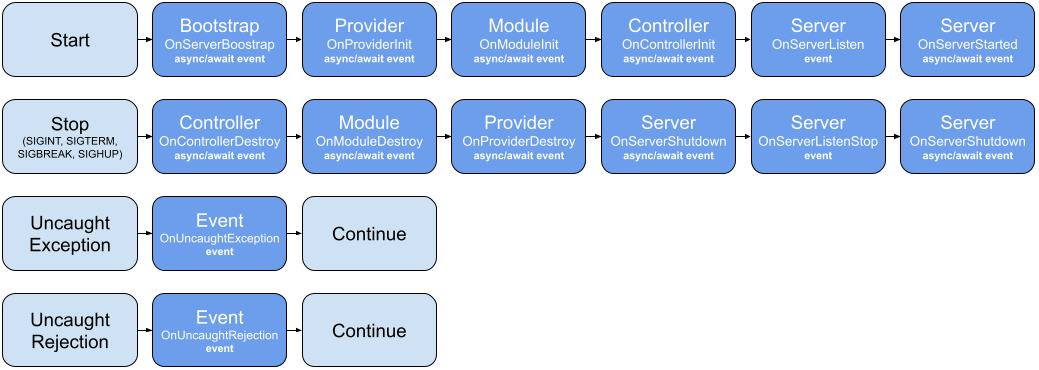
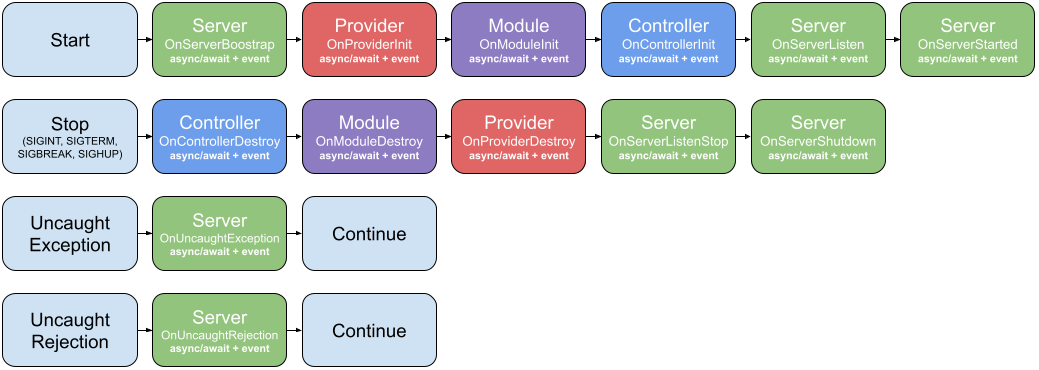
Lifecycle added errors

diff --git a/src/server.ts b/src/server.ts
@@ -134,7 +134,7 @@ export class Server {
   }
 
   private setDefaultUnhandledExceptionsFallback() {
-    process.on('uncaughtException', error => LifeCycleService.triggerUncaughtException(error));
-    process.on('unhandledRejection', error => LifeCycleService.triggerUncaughtRejection(error));
+    process.on('uncaughtException', async error => await LifeCycleService.triggerUncaughtException(error));
+    process.on('unhandledRejection', async error => await LifeCycleService.triggerUncaughtRejection(error));
   }
 }

diff --git a/src/services/life-cycle/life-cycle.service.ts b/src/services/life-cycle/life-cycle.service.ts
@@ -78,10 +78,12 @@ class LifeCycleManagerService {
   }
 
   async triggerUncaughtException(error: any) {
+    await LifeCycleManagerService.triggerAllModulesLifeCycleEvent('onServerBootstrap');
     LifeCycleManagerService.pushEvent('lifecycle.uncaught.exception', { error });
   }
 
   async triggerUncaughtRejection(error: any) {
+    await LifeCycleManagerService.triggerAllModulesLifeCycleEvent('onUncaughtRejection');
     LifeCycleManagerService.pushEvent('lifecycle.uncaught.rejection', { error });
   }
 }

diff --git a/src/models/interfaces/life-cycle.interface.ts b/src/models/interfaces/life-cycle.interface.ts
@@ -41,3 +41,11 @@ export interface OnServerShutdown {
 export interface OnServerBootstrap {
   onServerBootstrap();
 }
+
+export interface OnUncaughtException {
+  onUncaughtException();
+}
+
+export interface OnUncaughtRejection {
+  onUncaughtRejection();
+}

diff --git a/docs/index.md b/docs/index.md
@@ -12,6 +12,7 @@ It can also be used to **invert the control** in a pre-existent Express applicat
   - [Event hooks](#lifecycle-events)
   - [Start stage lifecycle](#lifecycle-start)
   - [Stop stage lifecycle](#lifecycle-stop)
+  - [Error lifecycle](#lifecycle-error)
 - [Modules](#modules)
 - [Controllers](#controllers)
   - [Routings](#controllers-routings)
@@ -69,6 +70,12 @@ Please read the Node.js process signal event [documentation](https://nodejs.org/
 | **Provider destriy**     | `OnProviderDestroy`    | Injectables    | `lifecycle.destroy.provider`      |
 | **Server listener stop** | `OnServerListenStop`   | All            | `lifecycle.server.listening.stop` | 
 | **Server shutdown**      | `OnServerShutdown`     | All            | `lifecycle.server.shutdown`       |
+
+### <a name="lifecycle-error"></a>Error lifecycle <a href="#toc"><img src="images/backtop.png" width="20"/></a>
+| What                     | Interface             | Interface type | Event                          |
+|--------------------------|-----------------------|----------------|--------------------------------|
+| **Controller destroy**   | `OnUncaughtException` | All            | `lifecycle.uncaught.exception` |
+| **Module destroy**       | `OnUncaughtRejection` | All            | `lifecycle.uncaught.rejection` |
 
 ## <a name="architecture"></a>General architecture <a href="#toc"><img src="images/backtop.png" width="20"/></a>
 ![General architecture](images/arch.png)
